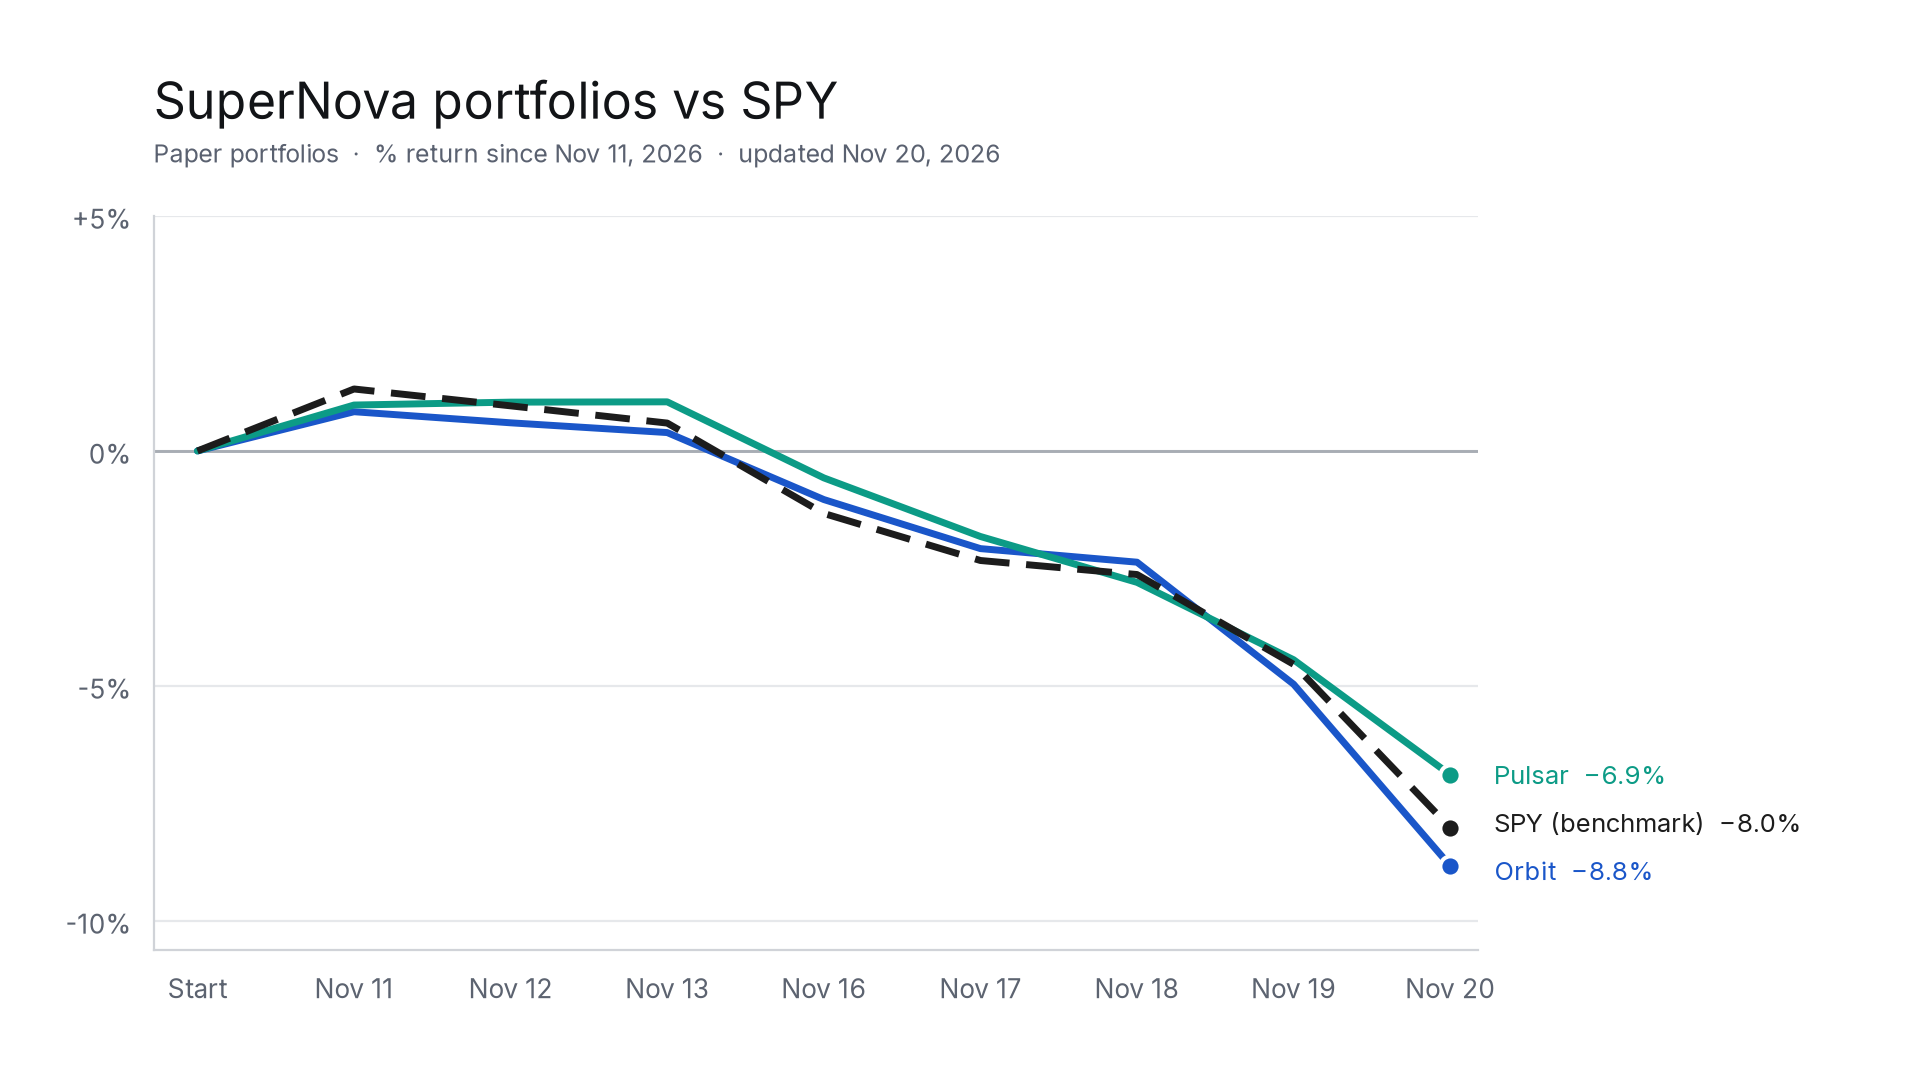
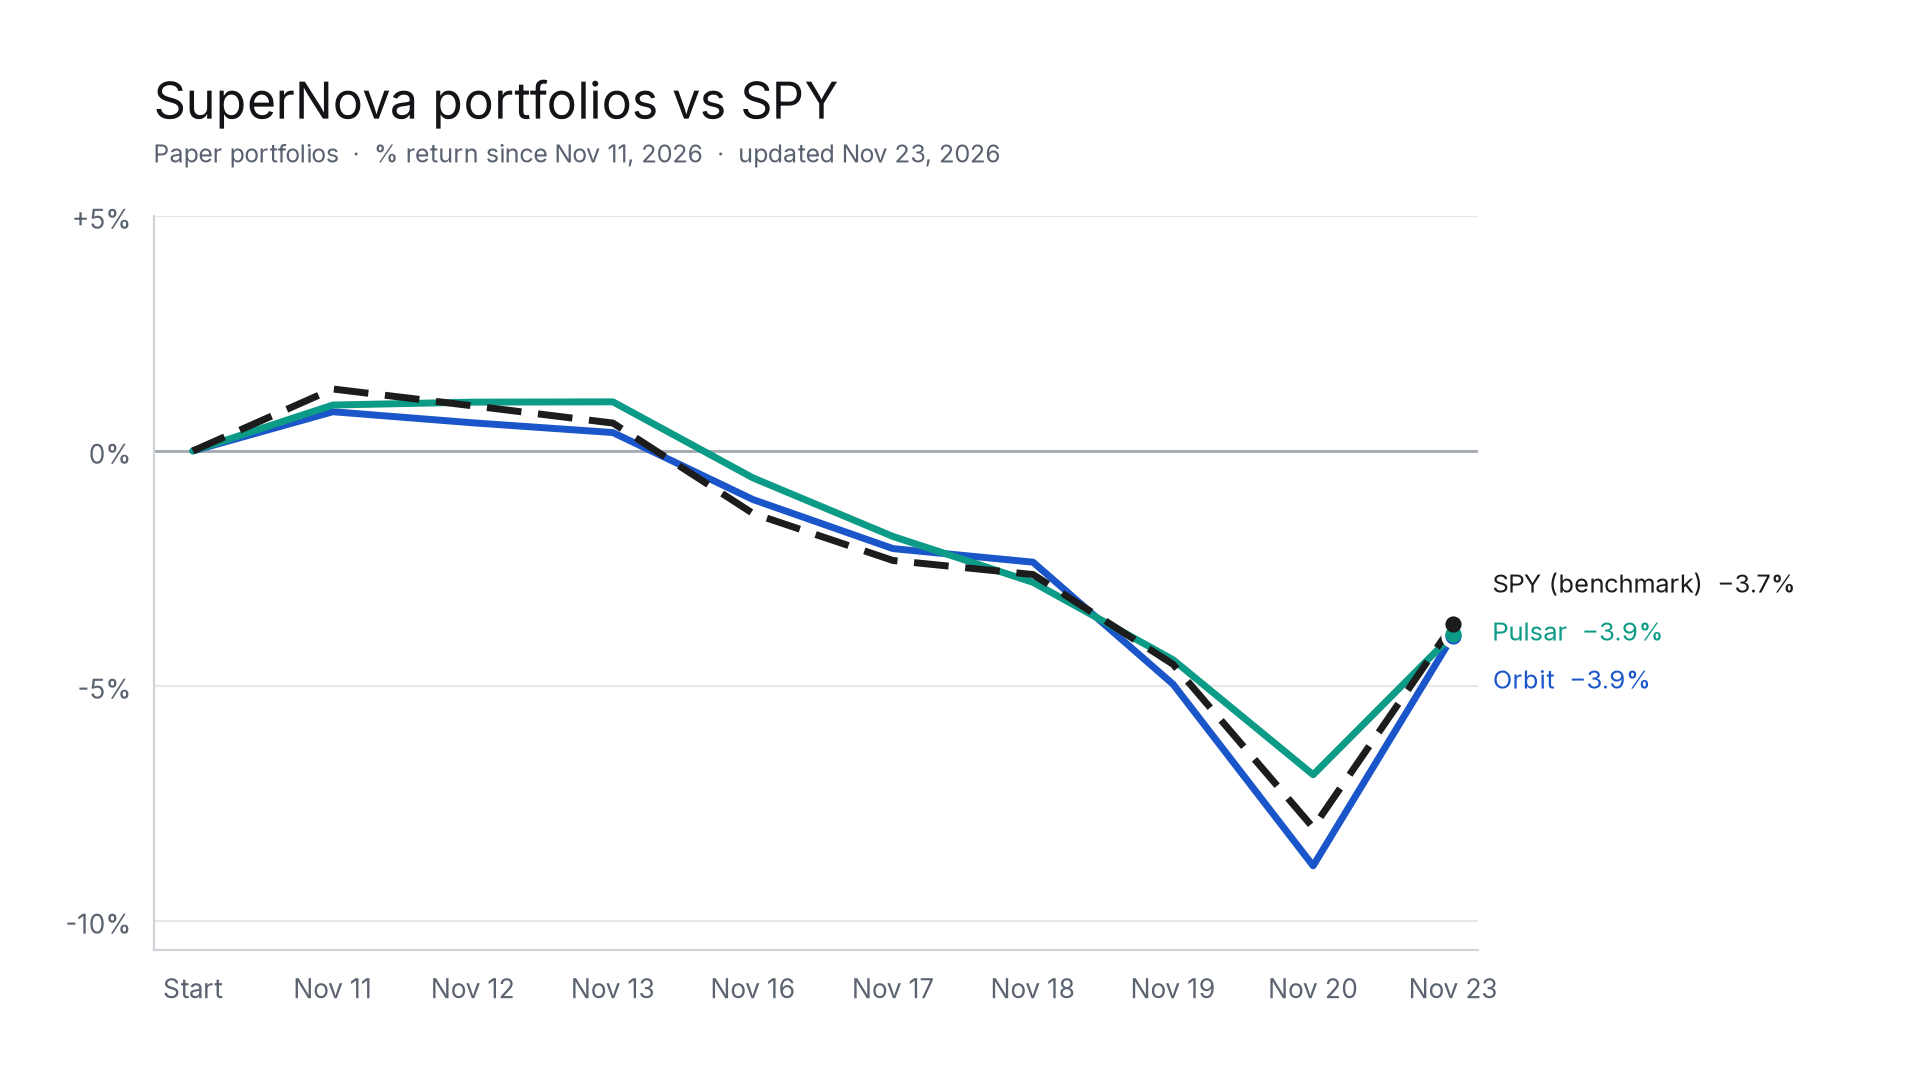
Update for 2026-11-23

diff --git a/README.md b/README.md
@@ -10,8 +10,8 @@ Paper portfolios, percent return since November 11, 2026, compared with SPY.
 
 | Portfolio | Start value (Nov 11, 2026) | Latest close | Return | SPY same period |
 |---|---|---|---|---|
-| SuperNova Orbit | $6,760.60 | $6,163.77 (Nov 20) | -8.83% | -8.02% |
-| SuperNova Pulsar | $6,988.14 | $6,506.66 (Nov 20) | -6.89% | -8.02% |
+| SuperNova Orbit | $6,760.60 | $6,495.08 (Nov 23) | -3.93% | -3.68% |
+| SuperNova Pulsar | $6,988.14 | $6,715.66 (Nov 23) | -3.90% | -3.68% |
 
 **SuperNova Orbit** is a concentrated growth portfolio of up to 20 high-conviction U.S. stocks, built to compete against the S&P 500. It pairs leaders in fast-growing themes like technology with a core of high-quality companies, and shifts weight toward what is working. Risk is managed with strict position and sector limits, a small cash buffer and a disciplined drawdown process. I do not trade it on a fixed schedule; I only make changes when my risk and position triggers fire.
 
